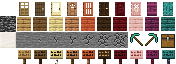
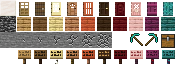
Parameterize stone life

diff --git a/src/app/map-list/map-list.component.html b/src/app/map-list/map-list.component.html
@@ -1,5 +1,5 @@
 <div class="row">
-  <div class="col-lg-7">
+  <div class="col-lg-6">
     <h3>Maps</h3>
     <table class="table table-bordered">
       <thead>
@@ -8,6 +8,7 @@
           <th>Description</th>
           <th>Size</th>
           <th>Players</th>
+          <th>Stone Life</th>
           <th>Action</th>
         </tr>
       </thead>
@@ -17,6 +18,7 @@
           <td>{{ row.description }}</td>
           <td>{{ row.gameMap.lengthUnits }} units</td>
           <td>{{ row.gameMap.players.length }}</td>
+          <td>{{ row.gameMap.grid.stoneLife || 5 }}</td>
           <td>
             <button class="btn btn-sm btn-primary" (click)="viewMap(row.gameMap)">View</button>
             <button class="btn btn-sm btn-danger" (click)="deleteGameMap(row.id)">Delete</button>
@@ -25,7 +27,7 @@
       </tbody>
     </table>
   </div>
-  <div class="col-lg-5">
+  <div class="col-lg-6">
     <div class="row">
       <div class="col-sm-12">
         <h3>Generate new map</h3>
@@ -44,16 +46,18 @@
         <div class="form-group row">
           <label class="col-sm-2 col-form-label">Units</label>
           <input type="text" class="form-control col-sm-2" [(ngModel)]="generatorConfig.units">
-          <label class="col-sm-3 col-form-label">Wood Types</label>
+          <label class="col-sm-2 col-form-label">Wood Types</label>
           <input type="text" class="form-control col-sm-2" [(ngModel)]="generatorConfig.numWoodType">
-          <label class="col-sm-2 col-form-label">Chests</label>
-          <input type="checkbox" class="form-control col-sm-1" [(ngModel)]="generatorConfig.haveChest">
+          <label class="col-sm-2 col-form-label">Stone Life</label>
+          <input type="text" class="form-control col-sm-2" [(ngModel)]="generatorConfig.stoneLife">
         </div>
         <div class="form-group row">
+          <label class="col-sm-1 col-form-label">Chests</label>
+          <input type="checkbox" class="form-control col-sm-1" [(ngModel)]="generatorConfig.haveChest">
           <label class="col-sm-3 col-form-label">Chest Min</label>
-          <input type="text" class="form-control col-sm-3" [(ngModel)]="generatorConfig.minChestReward">
+          <input type="text" class="form-control col-sm-2" [(ngModel)]="generatorConfig.minChestReward">
           <label class="col-sm-3 col-form-label">Chest Max</label>
-          <input type="text" class="form-control col-sm-3" [(ngModel)]="generatorConfig.maxChestReward">
+          <input type="text" class="form-control col-sm-2" [(ngModel)]="generatorConfig.maxChestReward">
         </div>
         <div class="form-group row">
           <label class="col-sm-3 col-form-label" style="padding-top: 0; padding-bottom: 0">Pressure Plate<br>Density</label>

diff --git a/src/app/map-list/map-list.component.ts b/src/app/map-list/map-list.component.ts
@@ -17,10 +17,11 @@ export class MapListComponent {
     units: '3',
     haveChest: true,
     numWoodType: '2',
-    pressurePlateDensity: '50',
-    doorDensity: '25',
+    pressurePlateDensity: '70',
+    doorDensity: '35',
     minChestReward: '25',
     maxChestReward: '50',
+    stoneLife: '10',
   }
   gameMap: proto.GameMap | null = null;
   grid: proto.Grid | null = null;
@@ -48,8 +49,9 @@ export class MapListComponent {
     }
     this.gameMap = generator.generate(proto.GameMap.create({
       players,
-      lengthUnits: parseInt(this.generatorConfig.units)
+      lengthUnits: parseInt(this.generatorConfig.units),
     }),
+      parseInt(this.generatorConfig.stoneLife),
       this.generatorConfig.haveChest,
       parseInt(this.generatorConfig.numWoodType),
       parseInt(this.generatorConfig.pressurePlateDensity),
@@ -57,8 +59,6 @@ export class MapListComponent {
       () => this.generateChestReward(parseInt(this.generatorConfig.minChestReward), parseInt(this.generatorConfig.maxChestReward))
     );
     this.grid = this.gameMap.grid!;
-
-
   }
 
   public saveGameMap() {
@@ -73,18 +73,6 @@ export class MapListComponent {
     this.data.deleteGameMap(id).subscribe(() => {
       this.loadGameMaps();
     });
-  }
-
-  private convertToGame(gameConfig: proto.GameConfig): proto.Game {
-    const game = proto.Game.create({
-      width: gameConfig.gameMap!.lengthUnits * 7 + 2,
-      height: gameConfig.gameMap!.lengthUnits * 7 + 2,
-      grid: gameConfig.gameMap!.grid,
-      players: gameConfig.players.map(playerConfig => playerConfig.player),
-      currentTick: 0,
-      gameLength: gameConfig.gameLength
-    });
-    return game;
   }
 
   private loadGameMaps() {
@@ -113,7 +101,7 @@ export class MapListComponent {
     */
     this.generatorConfig.numPlayers = numPlayers;
     this.generatorConfig.units = numPlayers <= 3 ? '3' : '4';
-    this.generatorConfig.pressurePlateDensity = numPlayers <= 3 ? '40' : '20';
-    this.generatorConfig.doorDensity = numPlayers <= 3 ? '20' : '10';
+    this.generatorConfig.pressurePlateDensity = numPlayers <= 3 ? '70' : '50';
+    this.generatorConfig.doorDensity = numPlayers <= 3 ? '35' : '25';
   }
 }

diff --git a/src/app/game.ts b/src/app/game.ts
@@ -284,6 +284,8 @@ export interface PlayerInfo {
 export interface Grid {
   rows: Row[];
   playerInfos: PlayerInfo[];
+  /** number of mine actions required to break a stone */
+  stoneLife: number;
 }
 
 export interface Game {
@@ -1079,7 +1081,7 @@ export const PlayerInfo = {
 };
 
 function createBaseGrid(): Grid {
-  return { rows: [], playerInfos: [] };
+  return { rows: [], playerInfos: [], stoneLife: 0 };
 }
 
 export const Grid = {
@@ -1089,6 +1091,9 @@ export const Grid = {
     }
     for (const v of message.playerInfos) {
       PlayerInfo.encode(v!, writer.uint32(18).fork()).ldelim();
+    }
+    if (message.stoneLife !== 0) {
+      writer.uint32(24).int32(message.stoneLife);
     }
     return writer;
   },
@@ -1114,6 +1119,13 @@ export const Grid = {
 
           message.playerInfos.push(PlayerInfo.decode(reader, reader.uint32()));
           continue;
+        case 3:
+          if (tag !== 24) {
+            break;
+          }
+
+          message.stoneLife = reader.int32();
+          continue;
       }
       if ((tag & 7) === 4 || tag === 0) {
         break;
@@ -1129,6 +1141,7 @@ export const Grid = {
       playerInfos: globalThis.Array.isArray(object?.playerInfos)
         ? object.playerInfos.map((e: any) => PlayerInfo.fromJSON(e))
         : [],
+      stoneLife: isSet(object.stoneLife) ? globalThis.Number(object.stoneLife) : 0,
     };
   },
 
@@ -1140,6 +1153,9 @@ export const Grid = {
     if (message.playerInfos?.length) {
       obj.playerInfos = message.playerInfos.map((e) => PlayerInfo.toJSON(e));
     }
+    if (message.stoneLife !== 0) {
+      obj.stoneLife = Math.round(message.stoneLife);
+    }
     return obj;
   },
 
@@ -1150,6 +1166,7 @@ export const Grid = {
     const message = createBaseGrid();
     message.rows = object.rows?.map((e) => Row.fromPartial(e)) || [];
     message.playerInfos = object.playerInfos?.map((e) => PlayerInfo.fromPartial(e)) || [];
+    message.stoneLife = object.stoneLife ?? 0;
     return message;
   },
 };

diff --git a/src/app/game/game_generator.ts b/src/app/game/game_generator.ts
@@ -64,7 +64,13 @@ export class GameGenerator {
   }
 
   // Generates the map. Visibility is not set here.
-  generate(config: proto.GameMap, haveChest: boolean, numWoodType: number, pressurePlateDensity: number, doorDensity: number, chestDistribution: () => number): proto.GameMap {
+  generate(config: proto.GameMap,
+    stoneLife: number,
+    haveChest: boolean,
+    numWoodType: number,
+    pressurePlateDensity:number,
+    doorDensity: number,
+    chestDistribution: () => number): proto.GameMap {
     const grid: proto.Cell[][] = [];
     const game = proto.GameMap.create(config);
     const nPlayers = config.players.length;
@@ -187,7 +193,7 @@ export class GameGenerator {
     }
 
     // copy the grid over to game
-    game.grid = proto.Grid.create();
+    game.grid = proto.Grid.create({ stoneLife });
     for (let i = 0; i < grid.length; ++i) {
       const row = proto.Row.create({ cells: grid[i] });
       game.grid.rows.push(row);
@@ -197,7 +203,7 @@ export class GameGenerator {
     const playerPositionShuffler = [];
     for (let dx = 1; dx < unitSize - 1; ++dx) {
       for (let dy = 1; dy < unitSize - 1; ++dy) {
-        if (dx == dy && dx == Math.ceil(unitSize / 2)) {
+        if (dx == dy && dx == Math.floor(unitSize / 2)) {
           continue;
         }
         playerPositionShuffler.push({ dx, dy });

diff --git a/src/app/grid-renderer/grid-renderer.component.html b/src/app/grid-renderer/grid-renderer.component.html
@@ -13,7 +13,7 @@
       [class.bedrock]="cell.cellType.bedrockCell"
       [class.stone]="cell.cellType.stoneCell"
       [style.background]="cell.firstVisitPlayer ? BG_COLORS[cell.firstVisitPlayer] : ''">
-      <div class="overlay tile"></div>
+      <div class="overlay tile" [style.backgroundPositionX]="stoneLifeStyle(cell, grid.stoneLife)"></div>
       <div class="overlay pressure" *ngIf="cell.cellType.pressurePlateCell" [style.backgroundPositionX]="-cell.cellType.pressurePlateCell.woodType * 16 + 'px'"></div>
       <div class="overlay door-right" *ngIf="cell.cellType.emptyCell && cell.cellType.emptyCell.door && cell.cellType.emptyCell.door.direction == 1"  [style.backgroundPositionX]="-cell.cellType.emptyCell.door.woodType * 16 + 'px'"></div>
       <div class="overlay door-up" *ngIf="cell.cellType.emptyCell && cell.cellType.emptyCell.door && cell.cellType.emptyCell.door.direction == 2"  [style.backgroundPositionX]="-cell.cellType.emptyCell.door.woodType * 16 + 'px'"></div>

diff --git a/src/app/game/game_runner.ts b/src/app/game/game_runner.ts
@@ -2,7 +2,7 @@ import { Strategy } from "../strategy/strategy";
 import * as proto from "../game";
 
 const UNIT_LENGTH = 7;
-const STONE_HP = 5;
+const DEFAULT_STONE_HP = 5;
 
 function offset(direction: proto.Direction) {
   switch (direction) {
@@ -354,9 +354,10 @@ export class GameRunner {
     }
     if (newCell.cellType?.stoneCell) {
       this.stoneDamage[new_x][new_y]++;
+      newCell.cellType.stoneCell.mineCount++;
       this.lastMined[new_x][new_y] = this.tickNumber;
 
-      if (this.stoneDamage[new_x][new_y] == STONE_HP) {
+      if (this.stoneDamage[new_x][new_y] == (this.game!.grid!.stoneLife || DEFAULT_STONE_HP)) {
         // stone dead
         newCell.cellType = proto.CellType.create({ emptyCell: {} });
         this.gridUpdateCoordinates.push(proto.Coordinates.create({

diff --git a/src/app/grid-renderer/grid-renderer.component.ts b/src/app/grid-renderer/grid-renderer.component.ts
@@ -11,4 +11,14 @@ export class GridRendererComponent {
   readonly BG_COLORS = BG_COLORS;
   readonly FG_COLORS = FG_COLORS;
 
+  stoneLifeStyle(cell: proto.Cell, stoneLife: number) {
+    if (!cell.cellType?.stoneCell) {
+      return '';
+    }
+    if (cell.cellType.stoneCell.mineCount == 0) {
+      return '';
+    }
+    const stage = Math.ceil(cell.cellType.stoneCell.mineCount * 6.0 / (stoneLife || 5));
+    return -16 * stage + 'px';
+  }
 }

diff --git a/src/app/game-manager/game-manager.component.ts b/src/app/game-manager/game-manager.component.ts
@@ -85,7 +85,7 @@ export class GameManagerComponent {
       currentTick: 0,
       height: gameConfig.gameMap!.grid?.rows.length,
       width: gameConfig.gameMap!.grid?.rows.length,
-      grid: gameConfig.gameMap!.grid
+      grid: gameConfig.gameMap!.grid,
     })
     for (const i in gameConfig.players) {
       const playerInfo = game.grid!.playerInfos[i];

diff --git a/src/app/grid-renderer/grid-renderer.component.scss b/src/app/grid-renderer/grid-renderer.component.scss
@@ -74,7 +74,7 @@
       }
 
       .tile {
-        background-position-y: -32px;
+        background-position-y: 0px;
       }
 
       &.bedrock .tile {
@@ -83,7 +83,6 @@
 
       &.stone .tile {
         background-position-y: -32px;
-        background-position-x: -16px;
       }
     }
   }
